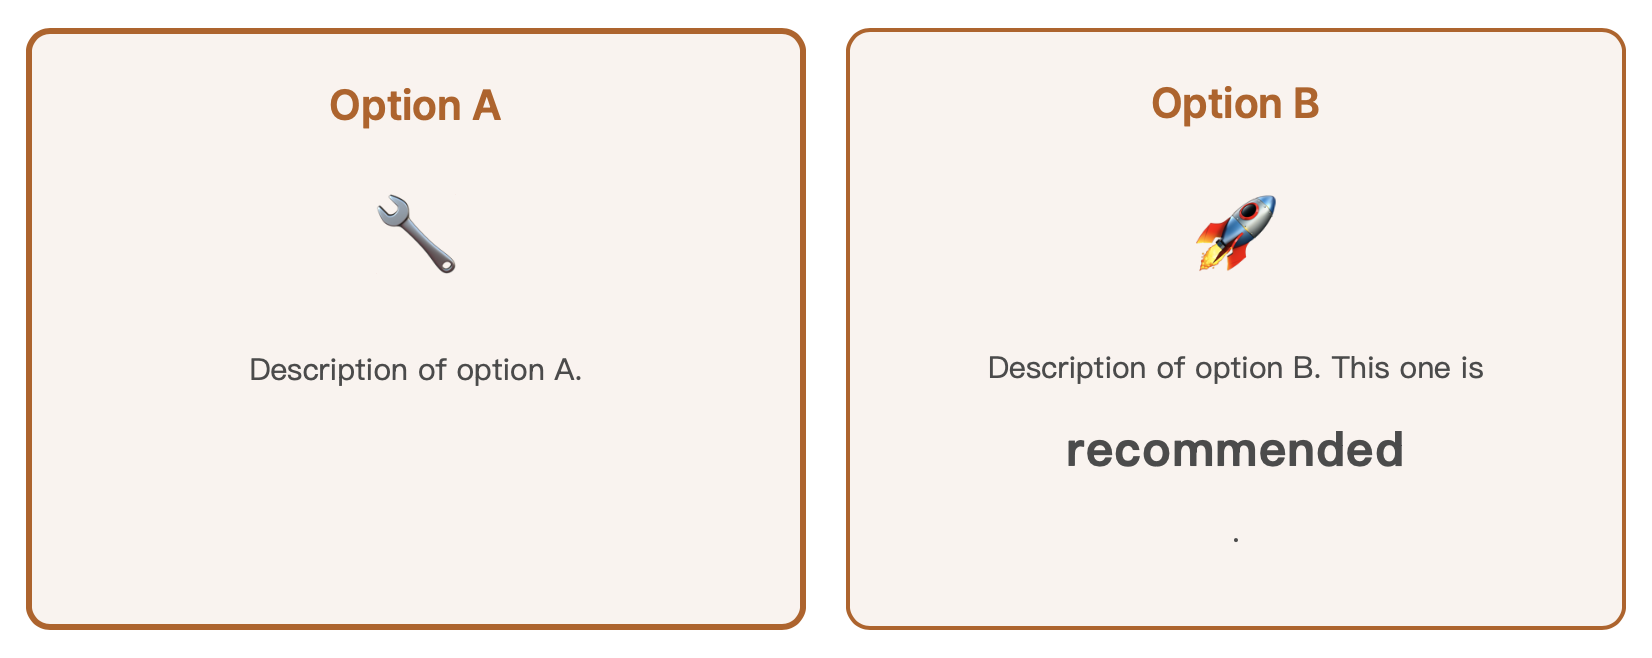
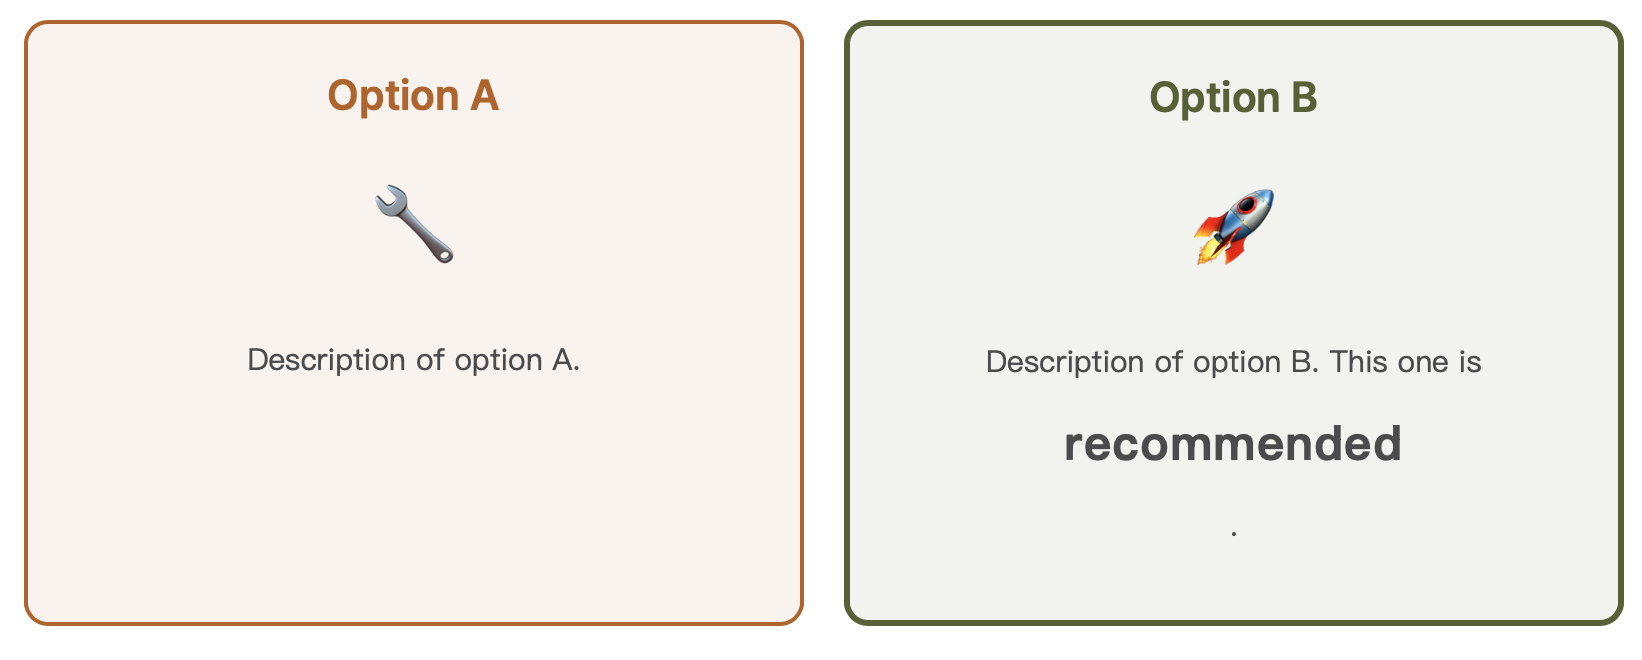
fix: recommended option border-width (3px→4px), update compare screenshot
- .dc-compare-option: 3px (normal)
- .dc-compare-option.dc-recommended: 4px (was incorrectly 2px)
- bump v0.1.2

diff --git a/lib/css.js b/lib/css.js
@@ -26,7 +26,7 @@ function getCSS() {
 
 .dc-compare{display:grid;grid-template-columns:1fr 1fr;gap:20px;margin:20px 0}
 .dc-compare-option{padding:20px;border-radius:12px;border-width:3px;border-style:solid}
-.dc-compare-option.dc-recommended{border-width:2px}
+.dc-compare-option.dc-recommended{border-width:4px}
 .dc-compare-option h4{margin:0 0 10px;text-align:center}
 .dc-compare-option .dc-emoji{text-align:center;font-size:40px}
 .dc-compare-body{text-align:center}
